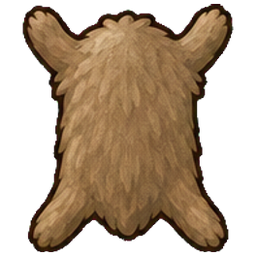
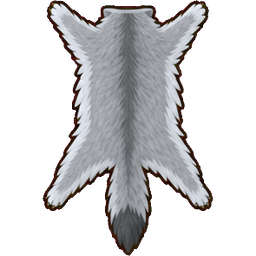
Pelt doober redrawn: the Coyote's grey, slim with a black-tipped tail
Job doobers-r16 (one item). It is told from the Bear Skin by colour and by shape. The atlas is
rebuilt in the working tree but not in this commit: it also holds art from other uncommitted work.

diff --git a/docs/art/doobers.md b/docs/art/doobers.md
@@ -89,6 +89,7 @@ the whole set sheet by sheet, nine items at a time, on grass and dirt with names
 | r9 last | Vampire's Blood (the drop), Scroll (the open parchment), Ancient Coin, Money (the coin stack; the header uses it too) |
 | r10 | Coconut (missed by the sheets because its row carried the tree's filename) |
 | r15 | Bear Skin redrawn 2026-11-12: no head (body, arms and legs only), and its fur matched to the Bear enemy's (the cut's fur hue shifted 7 degrees toward orange and darkened to the Bear's value) |
+| r16 | Pelt redrawn 2026-11-12: the Coyote's pelt, slim and long with thin leg flaps and a black-tipped tail so it is told from the broad Bear Skin; its fur neutralised to the Coyote's cool light grey in the cut |
 
 Two items were recoloured after approval rather than redrawn (owner, 2026-11-07): the Runic
 Tunic's blue brightened (HSV value x1.5, saturation x1.3), and the Thread spool's cream thread
